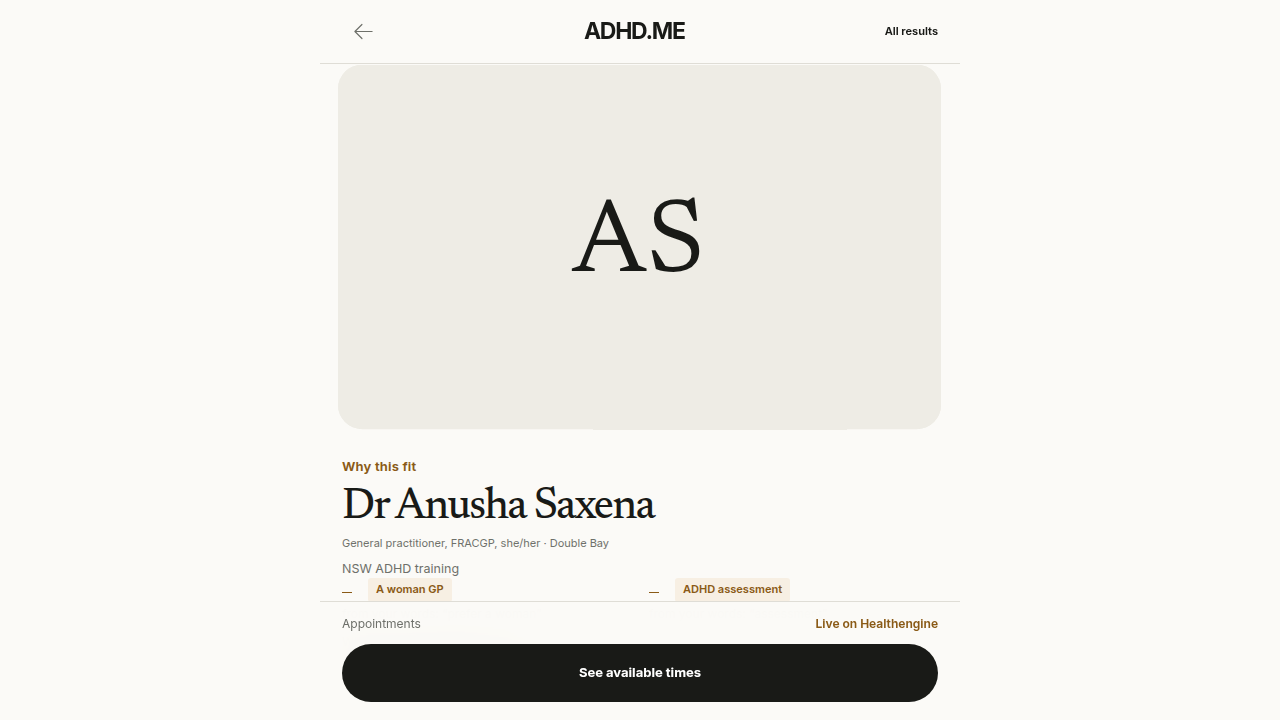
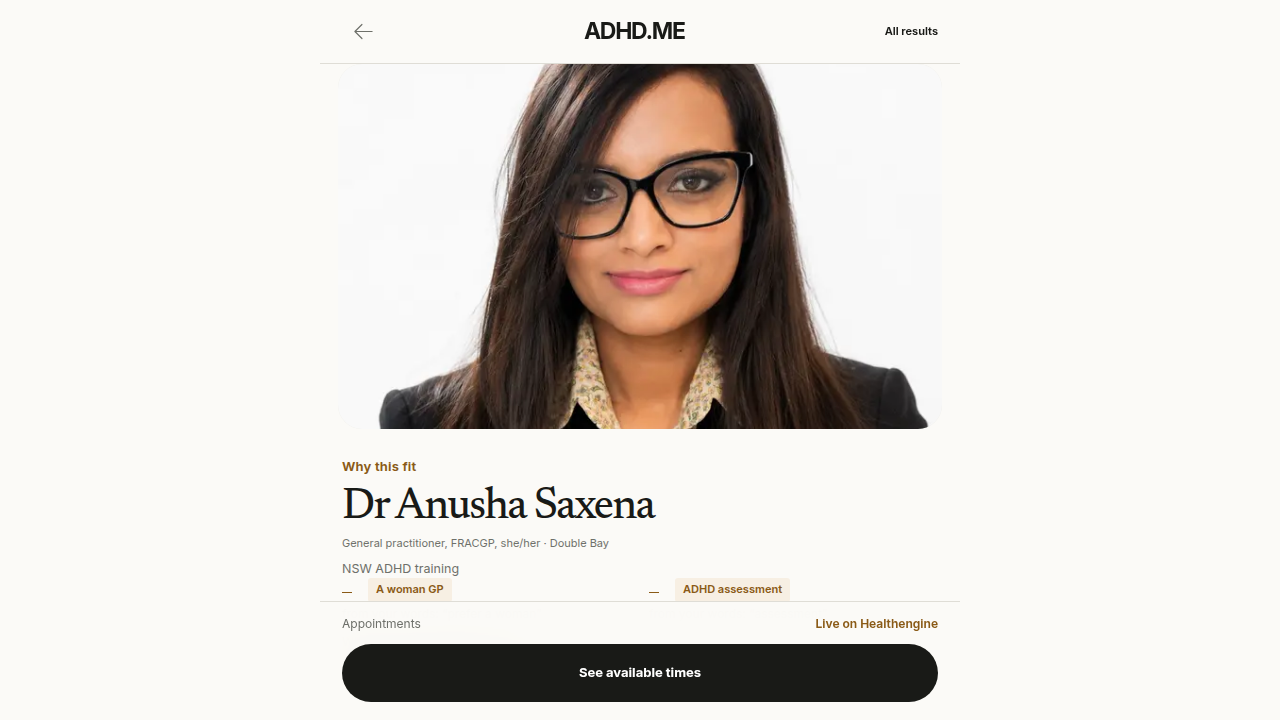
Dr Anusha Saxena's portrait (O82): supplied by the founder, the monogram era ends properly. (#16)
The founder attached her portrait in-session — the only route a real
person's likeness enters this tree (the O34 monogram was her choice
while no photo was supplied, never a gap to fill, and nothing here
generates a face). Cropped square and sized to the roster convention
(800x800 PNG beside Dr Anubhav's), image set on her roster entry, the
W228 graduation pin flipped from asserts-null to asserts-path, and the
O34 e2e now asserts the portrait renders on her result row and her
profile. Captures re-rendered.

Gate: pnpm verify green on the rebased tree (node_modules refreshed
against the day's lockfile first — the stale install failed typecheck
in files this change never touched); O34 e2e green. Vault log skipped:
Stefan-Brain unreachable from this container.

Claude-Session: https://claude.ai/code/session_01TVamNq6Z6TcjKFmyw63W9E

Changed region(s): [[0.2812, 0.0917, 0.7188, 0.6111]]

diff --git a/e2e/matching-verification.spec.ts b/e2e/matching-verification.spec.ts
@@ -135,15 +135,20 @@ test("a triple ask — language, psychographic, care — reads all three familie
 
 test("the woman-GP ask the roster could never answer now ranks Dr Anusha Saxena first (O34)", async ({ page }) => {
   // The founder's instruction, verified in pixels: she is live, she is first on the ask that
-  // motivated listing her, the reason is printed, and the monogram renders (no photo, by her
-  // choice) rather than a placeholder or a gap.
+  // motivated listing her, the reason is printed, and — since O82 — her portrait renders (the
+  // founder supplied it on her behalf; the monogram era ended with the real thing, never a
+  // generated one).
   await searchFor(page, "I would prefer a woman doctor for an ADHD assessment");
   await expect(page.locator(".clinician-row strong").first()).toHaveText(/Anusha/);
   await expect(page.getByText(/not a ranking|everyone we list/)).toHaveCount(0);
+  await expect(
+    page.locator(".clinician-row").first().locator(`img[src*="anusha-saxena"]`),
+  ).toBeVisible();
   await page.screenshot({ path: "qa/matching-o34/01-woman-gp-ranked-first.png", fullPage: true });
   await page.locator(".clinician-row").first().click();
   await expect(page.getByText("Dr Anusha Saxena").first()).toBeVisible();
   await expect(page.getByText(/from your words/).first()).toBeVisible();
+  await expect(page.locator(`.profile-screen img[src*="anusha-saxena"], img[src*="anusha-saxena"]`).first()).toBeVisible();
   await page.screenshot({ path: "qa/matching-o34/02-anusha-profile.png", fullPage: true });
 
   // O44: her booking path, walked to the handoff. The bar is a fixed overlay, so the evidence

diff --git a/src/demo/pending-clinicians.test.ts b/src/demo/pending-clinicians.test.ts
@@ -17,7 +17,9 @@ describe("W228 the staging area stays honest in both directions", () => {
     const anusha = clinicians.find((c) => c.id === "anusha-saxena")!;
     expect(anusha.gender).toBe("woman");
     expect(anusha.booking.via === "healthengine" && anusha.booking.practitionerId).toBe("160121");
-    expect(anusha.image).toBeNull();
+    // O82: the portrait arrived from the founder on her behalf (2026-08-20) — the monogram era
+    // ended the way the O34 note said it would: with the real thing supplied, never generated.
+    expect(anusha.image).toBe("/clinicians/anusha-saxena.png");
     expect(anusha.manner).toEqual([]);
     expect(anusha.mannerPending).toContain("2026-08-18");
   });

diff --git a/src/demo/clinicians.ts b/src/demo/clinicians.ts
@@ -343,7 +343,9 @@ export const clinicians: Clinician[] = [
     suburb: "Double Bay",
     practice: "Bay Health Clinic",
     reach: "Practice appointments in Double Bay",
-    image: null,
+    // O82: her portrait, supplied by the founder on her behalf (2026-08-20) — the only route a
+    // real person's likeness enters this tree. Until then the monogram was her choice, not a gap.
+    image: "/clinicians/anusha-saxena.png",
     acceptingNewPatients: true,
     capacityDeclaredAt: "2026-08-18",
     focus: "ADHD assessment & management, mental health, women's health & lifestyle",

diff --git a/BUILD-STATE.md b/BUILD-STATE.md
@@ -119,6 +119,16 @@ Session logs still go to Stefan-Brain `wiki/_log/` (non-fatal if unavailable).
 > directions in reach.test.ts §O40, every prior reach pin green with no ratchet movement, full
 > `pnpm verify` green (205 files, 2804 tests). Year plan Q1 item 4 marked done.
 
+> **O82 (founder-supplied — Dr Anusha Saxena's portrait) — claimed and DONE 2026-08-20,
+> interactive session (not a loop firing).** The founder supplied her portrait directly
+> (attached in-session, 2026-08-20), which is the only route a real person's likeness enters
+> this tree — the O34 monogram was her choice while no photo was supplied, never a gap to
+> fill. Cropped square and sized to the roster convention (800×800 PNG beside Dr Anubhav's),
+> `image` set on her entry, the W228 graduation pin flipped from asserts-null to asserts-path,
+> and the O34 e2e now asserts the portrait renders on both her result row and her profile.
+> Gate: pnpm verify green (after a node_modules refresh against the day's lockfile), O34 e2e
+> green, captures re-rendered. Loop firings: O82 is taken — next free number is O83.
+
 > **O81 (the O78 audit's headline named defect: a desire negation spends itself on the
 > NEAREST following ask — consume-once scope) — claimed 2026-08-20T04:56Z by loop-0820g;
 > DONE 2026-08-20. Gate: the two waiting aspirations PROMOTED exactly as predicted and
